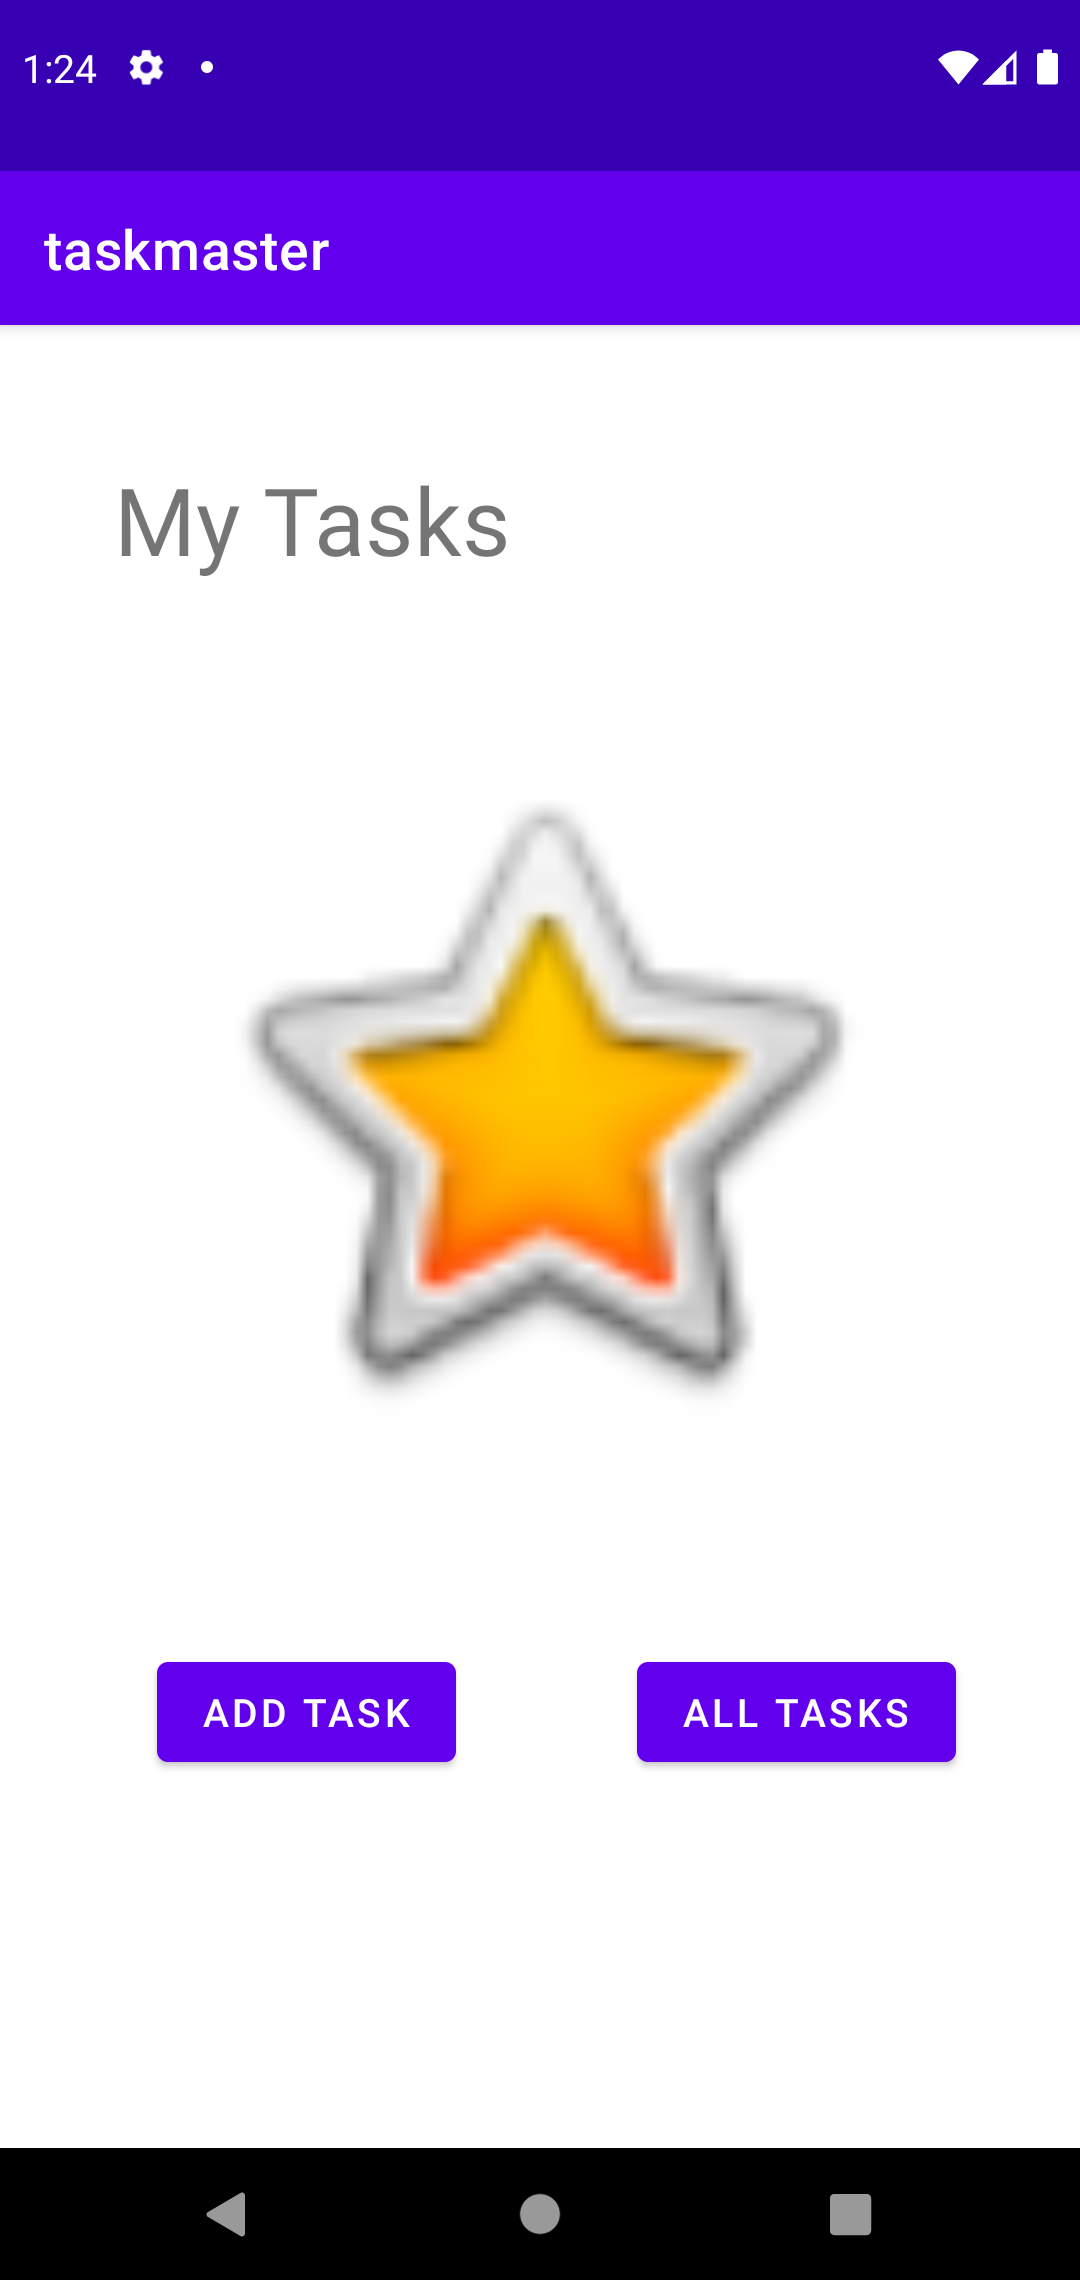
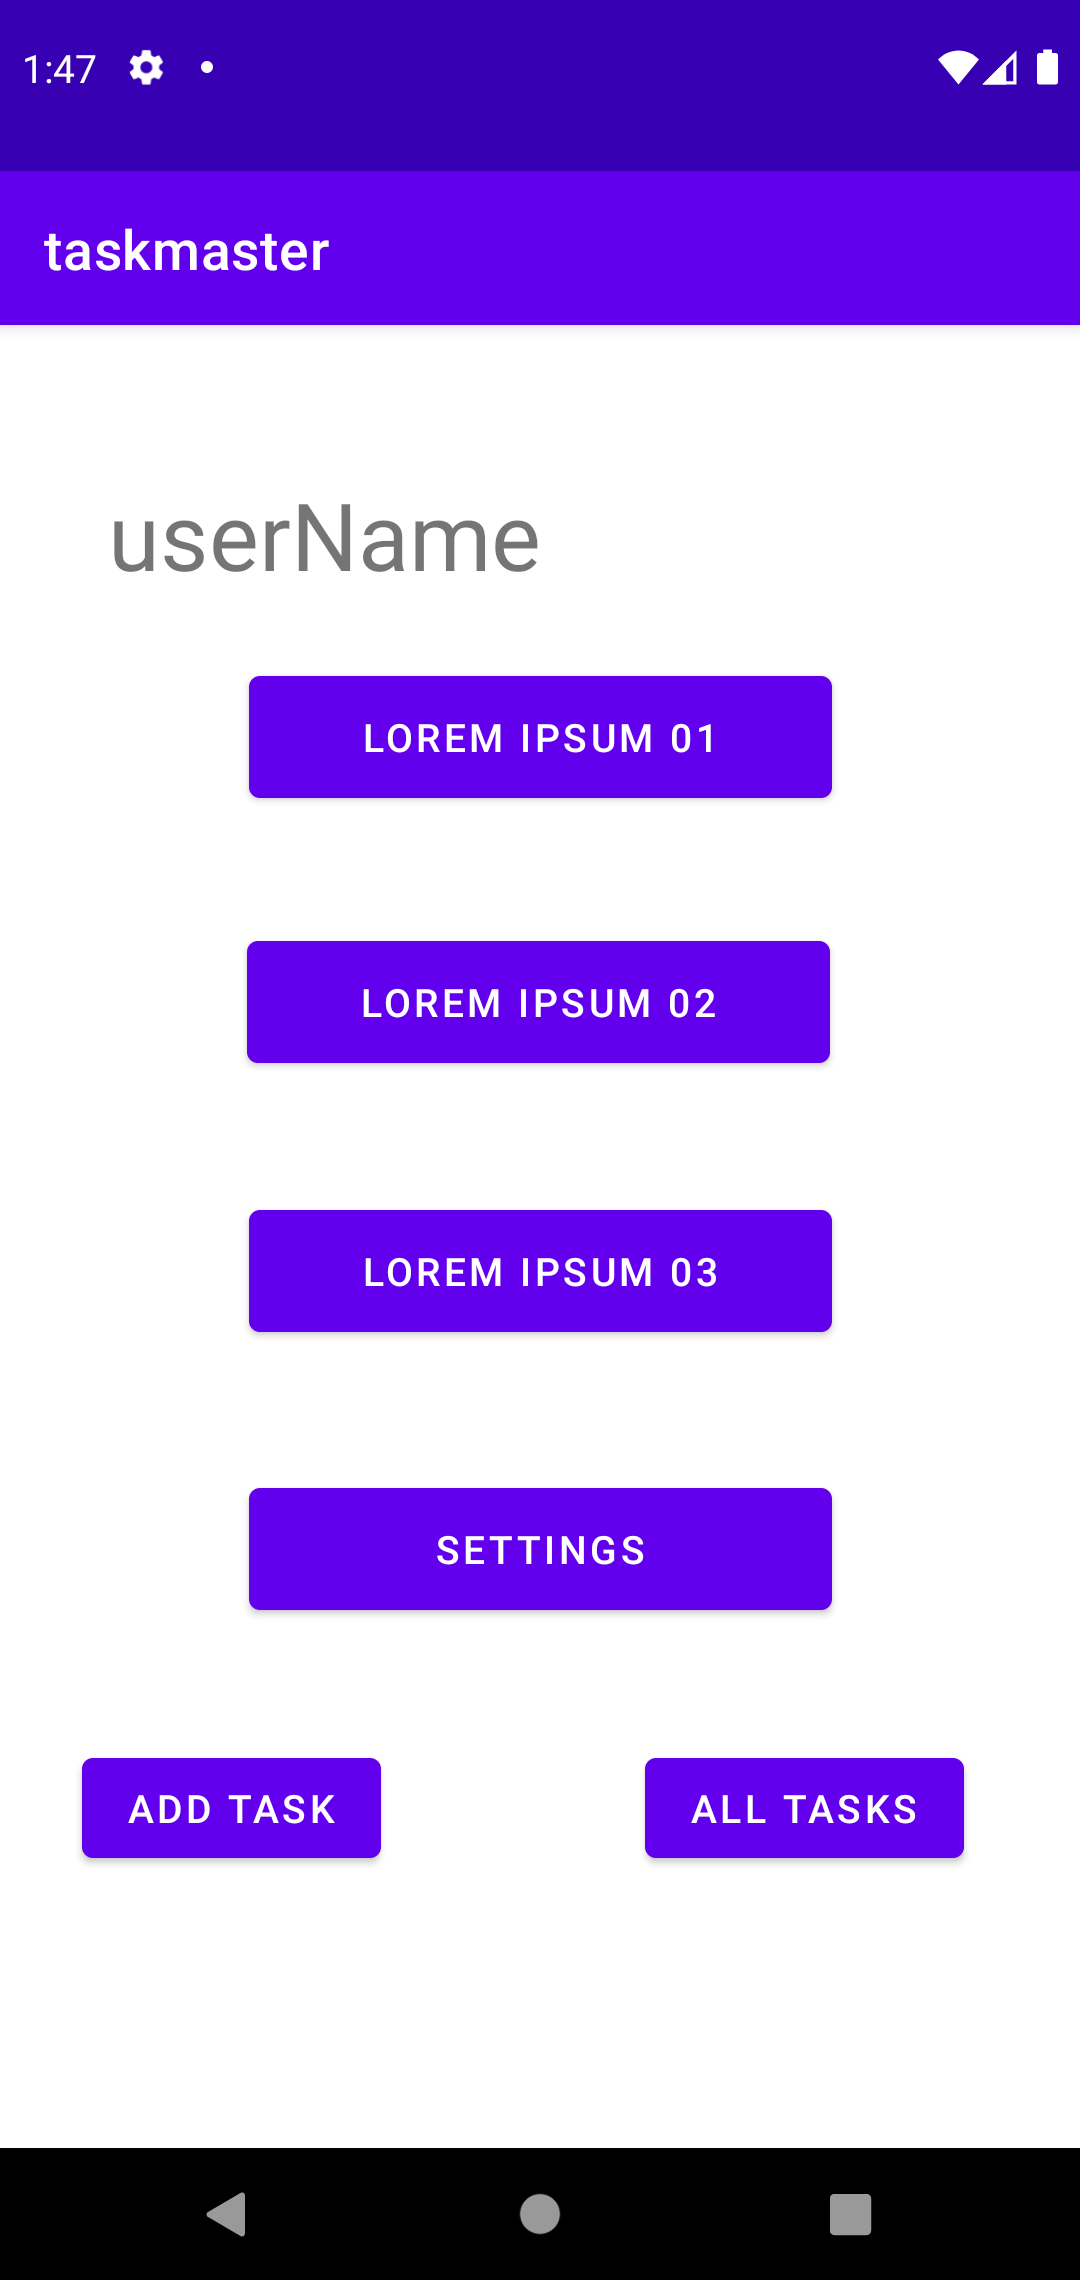
lab27

diff --git a/app/src/main/java/com/example/taskmaster/MainActivity.java b/app/src/main/java/com/example/taskmaster/MainActivity.java
@@ -3,13 +3,22 @@ package com.example.taskmaster;
 import androidx.appcompat.app.AppCompatActivity;
 
 import android.content.Intent;
+import android.content.SharedPreferences;
 import android.os.Bundle;
+import android.preference.PreferenceManager;
 import android.view.*;
 import android.widget.Button;
-
-
+import android.widget.TextView;
 
 public class MainActivity extends AppCompatActivity {
+
+    Button addTask , allTasks,Lorem1,Lorem2 ,Lorem3 ,setting;
+    SharedPreferences sharedPreferences;
+    String username;
+    TextView usernameField;
+
+
+
 
     @Override
     protected void onCreate(Bundle savedInstanceState) {
@@ -17,18 +26,16 @@ public class MainActivity extends AppCompatActivity {
         setContentView(R.layout.activity_main);
 
 
-        Button addTask=(Button) findViewById(R.id.addTask);
+        addTask = (Button) findViewById(R.id.addTask);
         addTask.setOnClickListener(new View.OnClickListener() {
             @Override
             public void onClick(View v) {
-                Intent goToAddTask=new Intent(MainActivity.this,AddTask.class);
+                Intent goToAddTask = new Intent(MainActivity.this, AddTask.class);
                 startActivity(goToAddTask);
             }
         });
 
-
-
-        Button allTasks = (Button) findViewById(R.id.allOfTasks);
+        allTasks = (Button) findViewById(R.id.allTasks);
         allTasks.setOnClickListener(new View.OnClickListener() {
             @Override
             public void onClick(View v) {
@@ -37,8 +44,75 @@ public class MainActivity extends AppCompatActivity {
             }
         });
 
+
+
+
+        // Lorem-------------------//
+        Lorem1 = findViewById(R.id.loremButton1);
+        Lorem1.setOnClickListener(new View.OnClickListener() {
+            @Override
+            public void onClick(View v) {
+
+                String loremText1=Lorem1.getText().toString();
+                Intent goToLorem1=new Intent(MainActivity.this,TaskDetail.class);
+                goToLorem1.putExtra("title",loremText1);
+                startActivity(goToLorem1);
+            }
+        });
+
+
+        Lorem2 = findViewById(R.id.loremButton2);
+        Lorem2.setOnClickListener(new View.OnClickListener() {
+            @Override
+            public void onClick(View v) {
+                String loremText2 = Lorem2.getText().toString();
+                Intent goToLorem2 = new Intent(MainActivity.this, TaskDetail.class);
+                goToLorem2.putExtra("title",loremText2);
+                startActivity(goToLorem2);
+
+            }
+
+        });
+
+
+
+
+        Lorem3 = findViewById(R.id.loremButton3);
+        Lorem3.setOnClickListener(new View.OnClickListener() {
+            @Override
+            public void onClick(View v) {
+                String loremText3 = Lorem3.getText().toString();
+                Intent goToLorem3 = new Intent(MainActivity.this, TaskDetail.class);
+                goToLorem3.putExtra("title",loremText3);
+                startActivity(goToLorem3);
+
+
+            }
+        });
+
+
+
+
+        setting = findViewById(R.id.settingsButton);
+        setting.setOnClickListener(new View.OnClickListener() {
+            @Override
+            public void onClick(View v) {
+                Intent goToSettingsPage = new Intent(MainActivity.this, Settings.class);
+                startActivity(goToSettingsPage);
+            }
+        });
     }
 
 
+    @Override
+    protected void onStart() {
+        super.onStart();
 
+
+        sharedPreferences = PreferenceManager.getDefaultSharedPreferences(MainActivity.this);
+        username = sharedPreferences.getString("username1", "userName");
+
+        usernameField = findViewById(R.id.userNameView);
+        usernameField.setText(username );
+    }
 }

diff --git a/app/src/main/java/com/example/taskmaster/Settings.java b/app/src/main/java/com/example/taskmaster/Settings.java
@@ -1,0 +1,41 @@
+package com.example.taskmaster;
+
+import androidx.appcompat.app.AppCompatActivity;
+
+import android.content.SharedPreferences;
+import android.os.Bundle;
+import android.preference.PreferenceManager;
+import android.view.View;
+import android.widget.Button;
+import android.widget.EditText;
+import android.widget.Toast;
+
+public class Settings extends AppCompatActivity {
+    SharedPreferences sharedPreferences;
+    SharedPreferences.Editor sharedPreferencesEditor;
+    EditText usernameInput;
+    String username;
+    @Override
+    protected void onCreate(Bundle savedInstanceState) {
+        super.onCreate(savedInstanceState);
+        setContentView(R.layout.activity_settings);
+
+
+        Button saveUsernameButton = findViewById(R.id.settingUsernameButton);
+        saveUsernameButton.setOnClickListener(new View.OnClickListener() {
+            @Override
+            public void onClick(View v) {
+                Toast.makeText(getApplicationContext(), "Done!", Toast.LENGTH_LONG).show();
+                sharedPreferences = PreferenceManager.getDefaultSharedPreferences(Settings.this);
+                sharedPreferencesEditor = sharedPreferences.edit();
+
+                usernameInput = findViewById(R.id.username);
+                username = usernameInput.getText().toString();
+
+                sharedPreferencesEditor.putString("username1", username);
+                sharedPreferencesEditor.apply();
+            }
+        });
+    }
+
+}

diff --git a/app/src/main/java/com/example/taskmaster/TaskDetail.java b/app/src/main/java/com/example/taskmaster/TaskDetail.java
@@ -1,0 +1,22 @@
+package com.example.taskmaster;
+
+import androidx.appcompat.app.AppCompatActivity;
+
+import android.content.Intent;
+import android.os.Bundle;
+import android.widget.TextView;
+
+public class TaskDetail extends AppCompatActivity {
+
+    @Override
+    protected void onCreate(Bundle savedInstanceState) {
+        super.onCreate(savedInstanceState);
+        setContentView(R.layout.activity_task_detail);
+
+        Intent intent = getIntent();
+        String title = intent.getExtras().getString("title");
+        TextView titleText = findViewById(R.id.detailPageTitle);
+        titleText.setText(title);
+
+    }
+}

diff --git a/README.md b/README.md
@@ -8,10 +8,22 @@
 * create a back button to navigate you back to the home page.
 
 ## Home page :
-<img src="./screenshots/main.png"/>
+<img src="./screenshots/main.png" height="400"/>
 
 ## Add Task page :
-<img src="./screenshots/addTask.png"/>
+<img src="./screenshots/addTask.png"  height="400"/>
 
 ## All Task page :
-<img src="./screenshots/allTask.png"/>
+<img src="./screenshots/allTask.png" height="400"/>
+
+# settings page :
+<img src="screenshot/addTask.png" height="400" />
+
+# Lorem1 page :
+<img src="screenshot/lorem1.png" height="400" />
+
+# Lorem2 page :
+<img src="screenshot/lorem2.png" height="400" />
+
+# Lorem1 page :
+<img src="screenshot/lorem3.png" height="400" />
